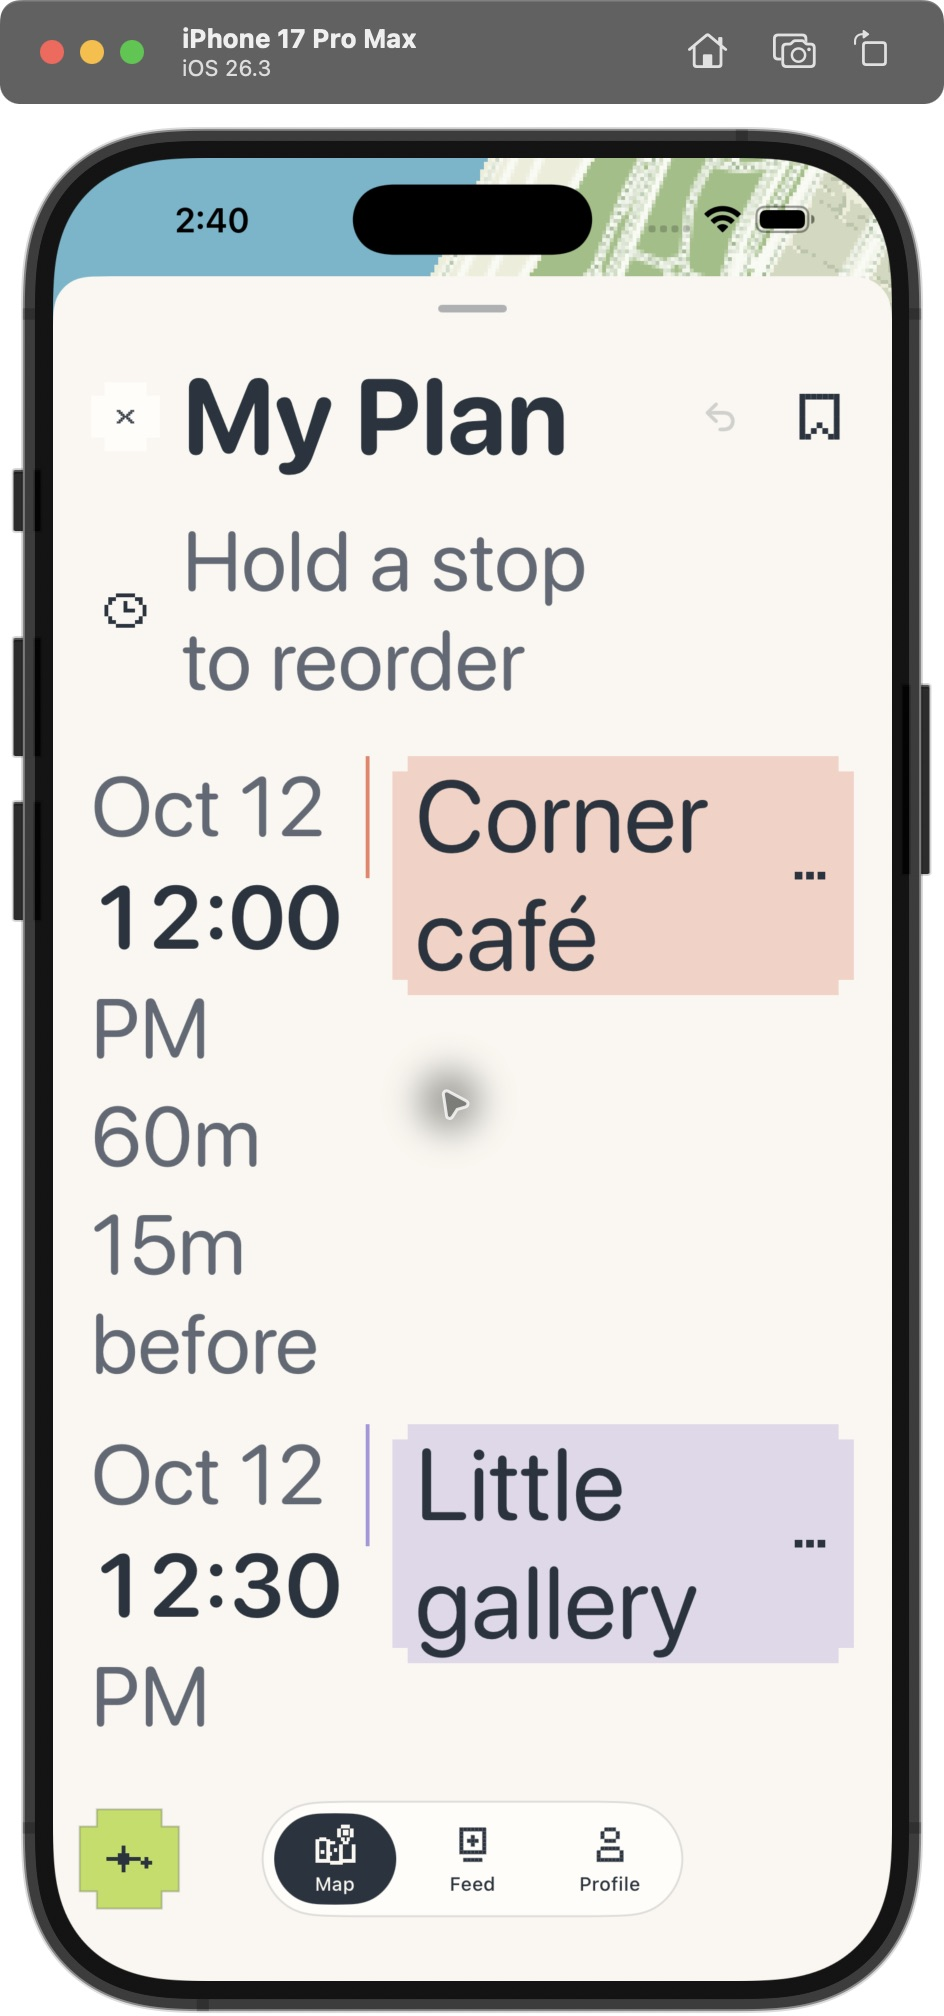
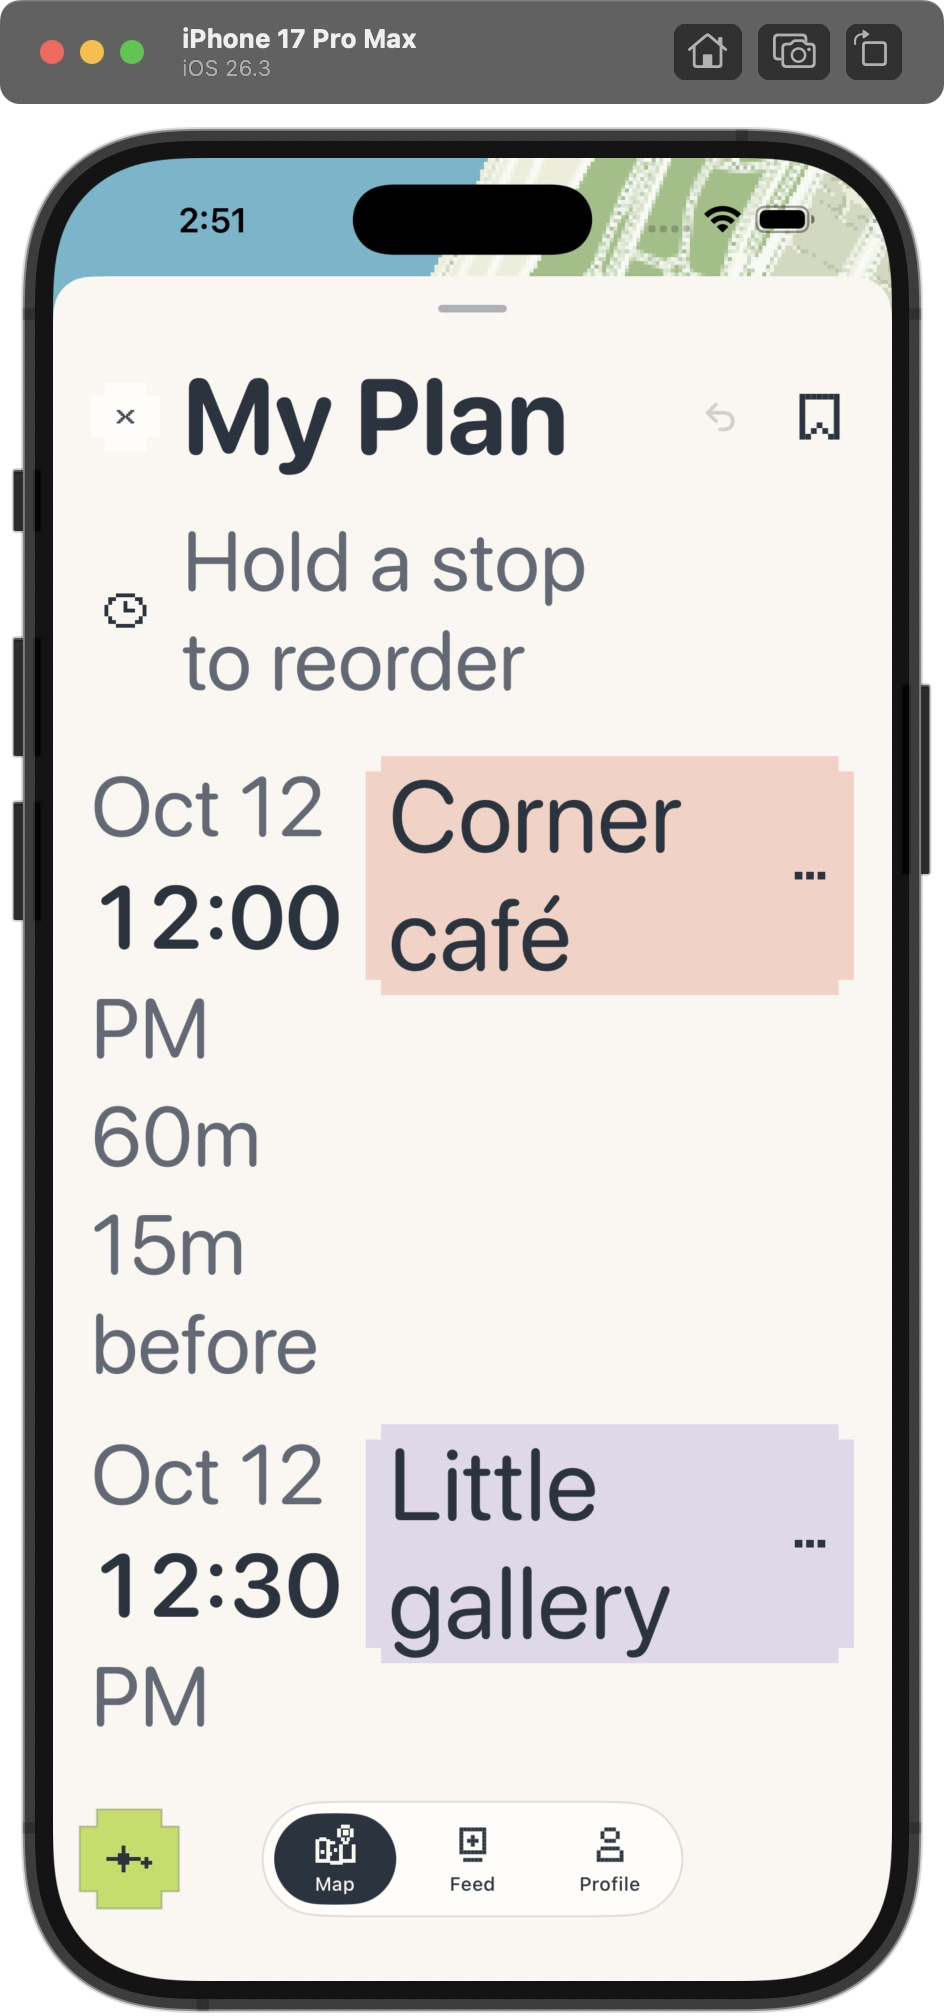
style: remove Plan row dividers

diff --git a/apps/ios/HermiPreview/Sources/HermiDesign/PlanPreviewPage.swift b/apps/ios/HermiPreview/Sources/HermiDesign/PlanPreviewPage.swift
@@ -319,8 +319,6 @@ struct PlanPreviewPage: View {
           .contentShape(Rectangle())
       }.accessibilityLabel("Edit time for \(place.name)")
         .controlHelp("Edit arrival, duration and reminder for \(place.name)")
-      Rectangle().fill(HermiPalette.category(place.category)).frame(width: 2, height: 64)
-        .accessibilityHidden(true)
       HStack(spacing: HermiSpacing.tight) {
         Button { openPlace = SavedReference(kind: .place, refID: place.id) } label: {
           Text(place.name).font(HermiTypography.body).fixedSize(horizontal: false, vertical: true)

diff --git a/docs/frontend/design-reference/2026-10-12-curated-ui-round-2/10-device-review/REVIEW.md b/docs/frontend/design-reference/2026-10-12-curated-ui-round-2/10-device-review/REVIEW.md
@@ -28,7 +28,7 @@ Assistant → Add a stop showed seven distinct, readable category choices in the
 
 - iPhone 17 Pro: Xcode-installed build launched after the first-run intro; Map, Feed and Profile were visually inspected. The developer signing team was trusted on-device to permit launch. The two follow-up fixes were made afterward, so they were not installed or rechecked on the physical phone.
 - iPhone 16e Simulator, iOS 26.3: current checkout rebuilt after both fixes. Profile notice, disabled Go, Feed, full-caption sheet, and Assistant category state were rendered and inspected at default text size. The `--hermi-demo` path reached the preview, onboarding Skip worked, and Map → Plan/Assistant and Feed → caption were exercised.
-- iPhone 17 Pro Max Simulator, iOS 26.3: after the user's review, the Plan `.accessibility5` fixture was rebuilt and inspected. Dates, times, duration and reminder stay in a left schedule column; stop cards align at the right. The time uses a compact localized hour/minute with its AM/PM period below, and duration/reminder use separate lines. The bounded column leaves room for complete stop names to wrap without clipping. The first two rows are visible in the captured viewport; scrolling to lower rows and Go remains unverified. Physical-device text-size settings and VoiceOver speech were not tested.
+- iPhone 17 Pro Max Simulator, iOS 26.3: after the user's review, the Plan `.accessibility5` fixture was rebuilt and inspected. Dates, times, duration and reminder stay in a left schedule column; stop cards align at the right. The time uses a compact localized hour/minute with its AM/PM period below, and duration/reminder use separate lines. The bounded column leaves room for complete stop names to wrap without clipping. Follow-up review found the category-colored divider unnecessary; it has been removed. The first two rows are visible in the captured viewport; scrolling to lower rows and Go remains unverified. Physical-device text-size settings and VoiceOver speech were not tested.
 - `DEVELOPER_DIR=/Applications/Xcode.app/Contents/Developer xcrun swift test --disable-sandbox`: 120 tests passed, 0 failures.
 - `node scripts/test-map-bridge.cjs`: all map, route, social, explored-area, landmark and map-chrome checks passed.
 - `git diff --check`: passed before documentation updates.

diff --git a/docs/frontend/PROGRESS.md b/docs/frontend/PROGRESS.md
@@ -1,5 +1,9 @@
 # Hermi frontend progress
 
+### 2026-10-12 — Plan divider removed after user review
+
+Removed the category-colored vertical rule between the large-text schedule column and event cards. Rebuilt and inspected the iPhone 17 Pro Max Simulator `.accessibility5` fixture; the left/right grouping remains clear without the extra line. The [Plan screenshot](design-reference/2026-10-12-curated-ui-round-2/10-device-review/accessibility-plan-columns-iphone17pm.jpeg) reflects this follow-up. All 120 Swift tests pass.
+
 ### 2026-10-12 — large-text Plan columns corrected and simulator-verified
 
 After the user reviewed the XXXL Plan and asked for time slots on the left with event cards grouped on the right, replaced the accessibility-size vertical stack with a two-column row. Simulator review exposed narrow event cards and a wrapping time label, so the time column is bounded and the localized hour/minute and day period are split cleanly. The `.accessibility5` fixture on iPhone 17 Pro Max Simulator (iOS 26.3) now shows date/time/duration/reminder in a consistent left column, aligned event cards on the right, and complete wrapped stop names. Screenshot and exact scope are in the [device review](design-reference/2026-10-12-curated-ui-round-2/10-device-review/REVIEW.md). The iOS Simulator build and all 120 Swift tests pass. Physical-device text sizing/VoiceOver and scrolling through the full accessibility-size plan remain unverified.
